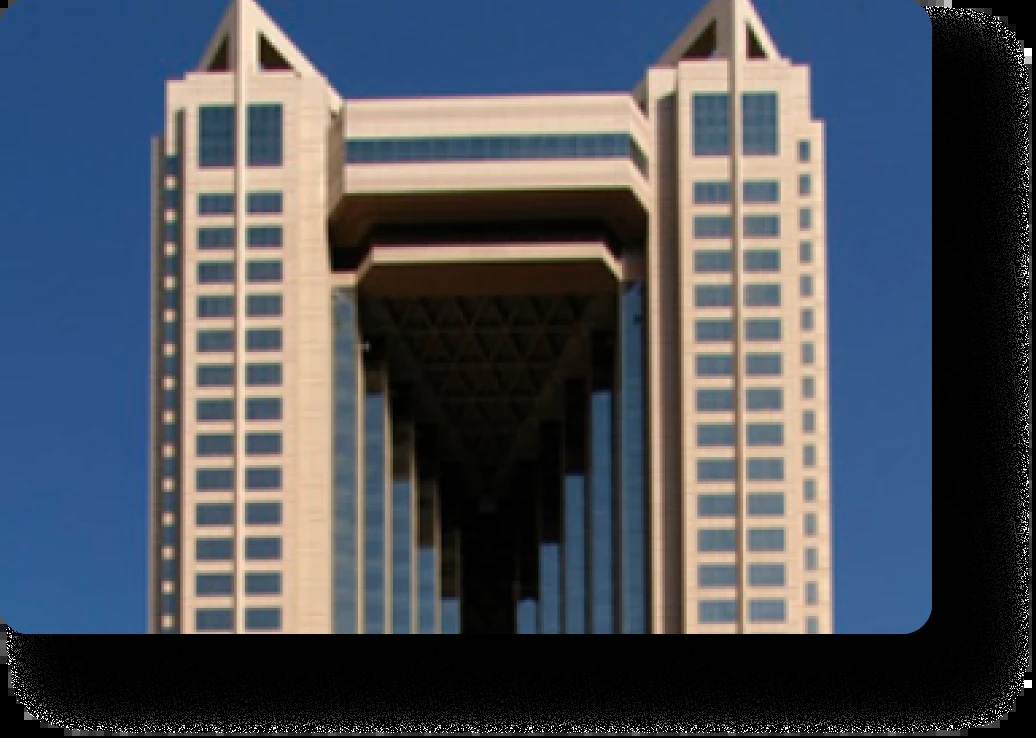
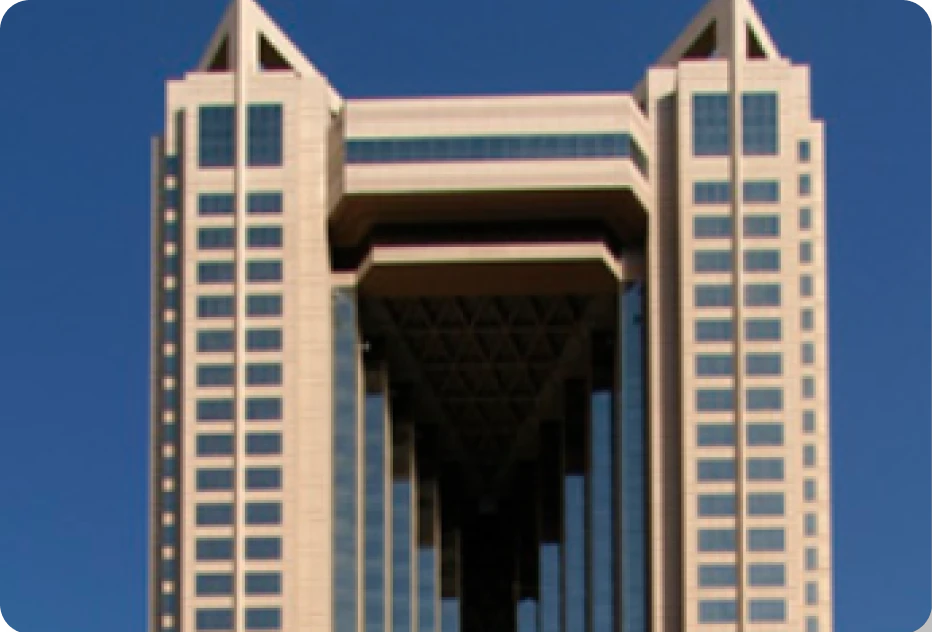
Update VR images with the newer uploaded photos
Swap in the newer, higher-quality photos for Family Mall, Al Wahda Mall,
and Fairmont; remove the raw uploads. Bump cache to v=14.

Claude-Session: https://claude.ai/code/session_01NbEtw66LjoBCM2c13gpFAo

diff --git a/app.js b/app.js
@@ -12,7 +12,7 @@
             id: 'sp-locator',
             category: 'electronic-services',
             featured: false,
-            image: 'images/projects/sp-locator.png?v=13',
+            image: 'images/projects/sp-locator.png?v=14',
             ar: { category: 'الخدمات الإلكترونية', name: 'محدد SP', location: 'السعودية', shortDesc: 'نظام تحديد المواقع الجغرافية لإدارة البنية التحتية للاتصالات.', fullDesc: 'تطوير نظام متكامل لتحديد المواقع الجغرافية يُستخدم في إدارة وتتبع البنية التحتية لشبكات الاتصالات في المملكة العربية السعودية، مما يعزز كفاءة العمليات والصيانة.' },
             en: { category: 'Electronic Services', name: 'SP Locator', location: 'Saudi Arabia', shortDesc: 'Geographic positioning system for telecom infrastructure management.', fullDesc: 'Development of an integrated geographic positioning system used to manage and track telecommunications network infrastructure in Saudi Arabia, enhancing operational and maintenance efficiency.' }
         },
@@ -20,7 +20,7 @@
             id: 'omantel-gis',
             category: 'electronic-services',
             featured: false,
-            image: 'images/projects/omantel-gis.png?v=13',
+            image: 'images/projects/omantel-gis.png?v=14',
             ar: { category: 'الخدمات الإلكترونية', name: 'أومانتيل GIS', location: 'عمان', shortDesc: 'نظام معلومات جغرافية متكامل لإدارة شبكات الاتصالات.', fullDesc: 'تطوير نظام معلومات جغرافية (GIS) متكامل لشركة عمانتل لإدارة ومراقبة شبكات الاتصالات بكفاءة عالية، مع توفير أدوات تحليل مكاني متقدمة.' },
             en: { category: 'Electronic Services', name: 'Omantel GIS', location: 'Oman', shortDesc: 'Integrated GIS system for managing telecommunications networks.', fullDesc: 'Development of a comprehensive Geographic Information System (GIS) for Omantel to efficiently manage and monitor telecommunications networks, with advanced spatial analysis tools.' }
         },
@@ -28,7 +28,7 @@
             id: 'sar-gis',
             category: 'electronic-services',
             featured: true,
-            image: 'images/projects/sar-gis.png?v=13',
+            image: 'images/projects/sar-gis.png?v=14',
             ar: { category: 'الخدمات الإلكترونية', name: 'سار GIS', location: 'قطر', shortDesc: 'نظام معلومات جغرافية لإدارة شبكة السكك الحديدية.', fullDesc: 'تصميم وتنفيذ نظام معلومات جغرافية متقدم لإدارة شبكة السكك الحديدية في قطر، يشمل تتبع الأصول وتحليل البيانات المكانية وتخطيط الصيانة.' },
             en: { category: 'Electronic Services', name: 'SAR GIS', location: 'Qatar', shortDesc: 'GIS system for railway network management.', fullDesc: 'Design and implementation of an advanced Geographic Information System for managing Qatar\'s railway network, including asset tracking, spatial data analysis, and maintenance planning.' }
         },
@@ -36,7 +36,7 @@
             id: 'lebanon-dsp',
             category: 'energy',
             featured: false,
-            image: 'images/projects/lebanon-dsp.png?v=13',
+            image: 'images/projects/lebanon-dsp.png?v=14',
             ar: { category: 'الطاقة', name: 'لبنان DSP', location: 'السعودية', shortDesc: 'تصميم وتخطيط محطات توزيع الطاقة الكهربائية.', fullDesc: 'مشروع تصميم وتخطيط محطات توزيع الطاقة الكهربائية بأحدث التقنيات والمعايير الدولية لضمان استدامة وكفاءة التوزيع الكهربائي.' },
             en: { category: 'Energy', name: 'Lebanon DSP', location: 'Saudi Arabia', shortDesc: 'Design and planning of electrical power distribution stations.', fullDesc: 'Design and planning project for electrical power distribution stations using the latest technologies and international standards to ensure sustainable and efficient power distribution.' }
         },
@@ -44,7 +44,7 @@
             id: 'baghdad-city',
             category: 'energy',
             featured: false,
-            image: 'images/projects/baghdad-city.png?v=13',
+            image: 'images/projects/baghdad-city.png?v=14',
             ar: { category: 'الطاقة', name: 'مدينة بغداد', location: 'العراق', shortDesc: 'تطوير البنية التحتية للطاقة الكهربائية في بغداد.', fullDesc: 'مشروع شامل لتطوير وتحديث البنية التحتية للطاقة الكهربائية في مدينة بغداد، يهدف إلى تحسين جودة الخدمة وزيادة قدرة الشبكة الكهربائية.' },
             en: { category: 'Energy', name: 'Baghdad City', location: 'Iraq', shortDesc: 'Electrical energy infrastructure development in Baghdad.', fullDesc: 'A comprehensive project to develop and modernize the electrical energy infrastructure in Baghdad city, aiming to improve service quality and increase grid capacity.' }
         },
@@ -52,7 +52,7 @@
             id: 'khafji-gas',
             category: 'energy',
             featured: false,
-            image: 'images/projects/khafji-gas.png?v=13',
+            image: 'images/projects/khafji-gas.png?v=14',
             ar: { category: 'الطاقة', name: 'غاز الخفجي', location: 'السعودية', shortDesc: 'تصميم وإشراف على منشآت معالجة الغاز الطبيعي.', fullDesc: 'تصميم هندسي متكامل والإشراف على تنفيذ منشآت معالجة الغاز الطبيعي في منطقة الخفجي، بما يشمل أنظمة المعالجة والتخزين والنقل.' },
             en: { category: 'Energy', name: 'Khafji Gas', location: 'Saudi Arabia', shortDesc: 'Design and supervision of natural gas processing facilities.', fullDesc: 'Comprehensive engineering design and supervision of natural gas processing facilities in the Khafji region, including processing, storage, and transportation systems.' }
         },
@@ -60,7 +60,7 @@
             id: 'mdeirej-bridge',
             category: 'infrastructure',
             featured: false,
-            image: 'images/projects/mdeirej-bridge.png?v=13',
+            image: 'images/projects/mdeirej-bridge.png?v=14',
             ar: { category: 'البنية التحتية', name: 'جسر مديرج', location: 'لبنان', shortDesc: 'تصميم وإشراف هندسي على بناء جسر مديرج الشهير.', fullDesc: 'تصميم وإشراف هندسي على بناء جسر مديرج الشهير في لبنان، أحد أبرز المعالم الهندسية في المنطقة، بطول يتجاوز عدة مئات من الأمتار.' },
             en: { category: 'Infrastructure', name: 'Mdeirej Bridge', location: 'Lebanon', shortDesc: 'Engineering design and supervision of the famous Mdeirej Bridge.', fullDesc: 'Engineering design and supervision of the iconic Mdeirej Bridge in Lebanon, one of the most prominent engineering landmarks in the region, spanning several hundred meters.' }
         },
@@ -68,7 +68,7 @@
             id: 'najran-airport',
             category: 'infrastructure',
             featured: true,
-            image: 'images/projects/najran-airport.png?v=13',
+            image: 'images/projects/najran-airport.png?v=14',
             ar: { category: 'البنية التحتية', name: 'مطار نجران', location: 'السعودية', shortDesc: 'الإشراف على إنشاء مطار نجران بتكليف من هيئة الطيران المدني.', fullDesc: 'كُلِّفت شركة خطيب وعلمي من قِبل الهيئة العامة للطيران المدني بالإشراف على إنشاء مطار نجران. يتضمن المشروع تصميم المدارج، المباني الرئيسية، والخدمات اللوجستية التي تدعم حركة المسافرين بكفاءة عالية.' },
             en: { category: 'Infrastructure', name: 'Najran Airport', location: 'Saudi Arabia', shortDesc: 'Supervision of Najran Airport construction for the Civil Aviation Authority.', fullDesc: 'Khatib & Alami was commissioned by the General Authority of Civil Aviation to supervise the construction of Najran Airport. The project includes runway design, main buildings, and logistics services supporting efficient passenger movement.' }
         },
@@ -76,7 +76,7 @@
             id: 'water-supply',
             category: 'infrastructure',
             featured: false,
-            image: 'images/projects/water-supply.png?v=13',
+            image: 'images/projects/water-supply.png?v=14',
             ar: { category: 'البنية التحتية', name: 'إمدادات المياه', location: 'كردستان', shortDesc: 'تطوير شبكات إمدادات المياه والصرف الصحي.', fullDesc: 'مشروع شامل لتطوير وتحديث شبكات إمدادات المياه والصرف الصحي في إقليم كردستان، يهدف لتوفير مياه نظيفة وآمنة للسكان وتحسين البنية التحتية للمياه.' },
             en: { category: 'Infrastructure', name: 'Water Supply', location: 'Kurdistan', shortDesc: 'Water supply and sewage network development.', fullDesc: 'A comprehensive project to develop and modernize water supply and sewage networks in the Kurdistan Region, aiming to provide clean and safe water for residents and improve water infrastructure.' }
         },
@@ -84,7 +84,7 @@
             id: 'riyadh-hotel',
             category: 'architecture',
             featured: false,
-            image: 'images/projects/riyadh-hotel.png?v=13',
+            image: 'images/projects/riyadh-hotel.png?v=14',
             ar: { category: 'الهندسة المعمارية', name: 'فندق الرياض', location: 'الجزائر', shortDesc: 'تصميم معماري وإنشائي لفندق فاخر في العاصمة الجزائرية.', fullDesc: 'تصميم معماري وإنشائي متكامل لفندق فاخر في العاصمة الجزائرية، يجمع بين الأصالة والحداثة مع مرافق عالمية المستوى ومعايير ضيافة استثنائية.' },
             en: { category: 'Architecture', name: 'Riyadh Hotel', location: 'Algeria', shortDesc: 'Architectural and structural design of a luxury hotel.', fullDesc: 'Comprehensive architectural and structural design of a luxury hotel in the Algerian capital, combining authenticity and modernity with world-class facilities and exceptional hospitality standards.' }
         },
@@ -92,7 +92,7 @@
             id: 'tamkeen-tower',
             category: 'architecture',
             featured: false,
-            image: 'images/projects/tamkeen-tower.png?v=13',
+            image: 'images/projects/tamkeen-tower.png?v=14',
             ar: { category: 'الهندسة المعمارية', name: 'برج تمكين', location: 'السعودية', shortDesc: 'تصميم وإشراف هندسي على بناء برج تمكين الشاهق.', fullDesc: 'تصميم وإشراف هندسي متكامل على بناء برج تمكين، أحد الأبراج الشاهقة في المملكة العربية السعودية، بتقنيات بناء متطورة وتصميم معماري عصري.' },
             en: { category: 'Architecture', name: 'Tamkeen Tower', location: 'Saudi Arabia', shortDesc: 'Engineering design and supervision of the iconic Tamkeen Tower.', fullDesc: 'Comprehensive engineering design and supervision of Tamkeen Tower, one of the tallest towers in Saudi Arabia, utilizing advanced construction techniques and modern architectural design.' }
         },
@@ -100,7 +100,7 @@
             id: 'jabal-omar',
             category: 'architecture',
             featured: true,
-            image: 'images/projects/jabal-omar.png?v=13',
+            image: 'images/projects/jabal-omar.png?v=14',
             ar: { category: 'الهندسة المعمارية', name: 'جبل عمر', location: 'السعودية', shortDesc: 'تطوير مشروع جبل عمر على مساحة تزيد عن مليون متر مربع.', fullDesc: 'تعمل شركة خطيب وعلمي على مشروع تطوير جبل عمر، الذي يمتد على مساحة تزيد عن مليون متر مربع. يهدف المشروع لتطوير بنية تحتية حديثة تخدم زوار مكة المكرمة بأعلى مستويات الراحة والجودة العمرانية.' },
             en: { category: 'Architecture', name: 'Jabal Omar', location: 'Saudi Arabia', shortDesc: 'Development spanning over one million square meters near the Holy Mosque.', fullDesc: 'Khatib & Alami is working on the Jabal Omar development project, spanning over one million square meters. The project aims to develop modern infrastructure serving visitors to Makkah with the highest levels of comfort and urban quality.' }
         },
@@ -108,7 +108,7 @@
             id: 'salil-factory',
             category: 'energy',
             featured: false,
-            image: 'images/projects/salil-factory.png?v=13',
+            image: 'images/projects/salil-factory.png?v=14',
             ar: { category: 'الطاقة', name: 'مصنع سليل للتعبئة', location: 'السعودية', shortDesc: 'إعداد مراجعة التصميم التفصيلي والمساعدة في شراء المواد ووثائق البناء لمصنع السائبة في السليل.', fullDesc: 'إعداد مراجعة التصميم التفصيلي بما في ذلك المساعدة في شراء المواد ووثائق البناء لمصنع السائبة في السليل. يمثل المشروع خطوة متقدمة في القطاع الصناعي لدعم الإنتاج المحلي.' },
             en: { category: 'Energy', name: 'Salil Packaging Factory', location: 'Saudi Arabia', shortDesc: 'Detailed design review and procurement assistance for the bulk plant in Salil.', fullDesc: 'Preparation of detailed design review, including procurement assistance and construction documentation for the bulk plant in Salil. The project represents a key industrial step supporting local production.' }
         },
@@ -116,7 +116,7 @@
             id: 'riyadh-services',
             category: 'electronic-services',
             featured: true,
-            image: 'images/projects/riyadh-services.png?v=13',
+            image: 'images/projects/riyadh-services.png?v=14',
             ar: { category: 'الخدمات الإلكترونية', name: 'برنامج الخدمات بالرياض', location: 'السعودية', shortDesc: 'بناء ونشر نظم المعلومات الجغرافية لخدمة قطاع الأعمال ورفع الكفاءة.', fullDesc: 'الهدف من نشر نظم المعلومات الجغرافية هو بناء قاعدة لنظام المؤسسة الذي سيتم دمجه مع أنظمة متعددة لخدمة قطاع الأعمال ورفع كفاءة الخدمات الإلكترونية بالمنطقة.' },
             en: { category: 'Electronic Services', name: 'Riyadh Services Program', location: 'Saudi Arabia', shortDesc: 'Deploying GIS to serve the business sector and improve service efficiency.', fullDesc: 'The deployment of GIS aims to build an enterprise system integrated with multiple platforms to serve the business sector and raise the efficiency of electronic services in Riyadh.' }
         }
@@ -124,9 +124,9 @@
 
     // VR Data
     const vrData = [
-        { name: { ar: 'مول العائلة', en: 'Family Mall' }, image: 'images/projects/vr-family-mall.png?v=13', link: 'https://maps.app.goo.gl/ZwNfmAv9Sau8GWFe7' },
-        { name: { ar: 'الوحدة مول', en: 'Al Wahda Mall' }, image: 'images/projects/vr-alwahda-mall.png?v=13', link: 'https://maps.app.goo.gl/oEdzmyBDZuj4JMLZ6' },
-        { name: { ar: 'فندق فيرمونت', en: 'Fairmont Hotel' }, image: 'images/projects/vr-fairmont.png?v=13', link: 'https://maps.app.goo.gl/eFgmSJ1jTCtz4dre9' }
+        { name: { ar: 'مول العائلة', en: 'Family Mall' }, image: 'images/projects/vr-family-mall.png?v=14', link: 'https://maps.app.goo.gl/ZwNfmAv9Sau8GWFe7' },
+        { name: { ar: 'الوحدة مول', en: 'Al Wahda Mall' }, image: 'images/projects/vr-alwahda-mall.png?v=14', link: 'https://maps.app.goo.gl/oEdzmyBDZuj4JMLZ6' },
+        { name: { ar: 'فندق فيرمونت', en: 'Fairmont Hotel' }, image: 'images/projects/vr-fairmont.png?v=14', link: 'https://maps.app.goo.gl/eFgmSJ1jTCtz4dre9' }
     ];
 
     /* ==========================================

diff --git a/index.html b/index.html
@@ -40,7 +40,7 @@
     </script>
 
     <!-- Custom Styles -->
-    <link rel="stylesheet" href="styles.css?v=13">
+    <link rel="stylesheet" href="styles.css?v=14">
 </head>
 <body class="antialiased flex flex-col min-h-screen">
 
@@ -319,16 +319,16 @@
                 <div class="max-w-7xl mx-auto px-4 text-center">
                     <h2 class="text-2xl font-bold text-black mb-8 animate-on-scroll" data-i18n="partners.title">شركاؤنا في النجاح</h2>
                     <div class="partners-grid max-w-5xl mx-auto grid grid-cols-2 sm:grid-cols-3 md:grid-cols-5 gap-x-6 gap-y-8 items-center">
-                        <img src="images/partners/world-games.png?v=13" class="partners-logo animate-on-scroll" data-animate="zoom-in" loading="lazy" alt="الألعاب العالمية">
-                        <img src="images/partners/royal-commission-riyadh.png?v=13" class="partners-logo animate-on-scroll" data-animate="zoom-in" loading="lazy" alt="الهيئة الملكية لمدينة الرياض">
-                        <img src="images/partners/ministry-tourism.png?v=13" class="partners-logo animate-on-scroll" data-animate="zoom-in" loading="lazy" alt="وزارة السياحة">
-                        <img src="images/partners/qiddiya.png?v=13" class="partners-logo animate-on-scroll" data-animate="zoom-in" loading="lazy" alt="القدية">
-                        <img src="images/partners/tamm.png?v=13" class="partners-logo animate-on-scroll" data-animate="zoom-in" loading="lazy" alt="تم">
-                        <img src="images/partners/ministry-telecom.png?v=13" class="partners-logo animate-on-scroll" data-animate="zoom-in" loading="lazy" alt="وزارة الاتصالات">
-                        <img src="images/partners/sar.png?v=13" class="partners-logo animate-on-scroll" data-animate="zoom-in" loading="lazy" alt="الشركة السعودية للخطوط الحديدية (سار)">
-                        <img src="images/partners/health-eoc.png?v=13" class="partners-logo animate-on-scroll" data-animate="zoom-in" loading="lazy" alt="مركز عمليات الطوارئ الصحية">
-                        <img src="images/partners/amlak.png?v=13" class="partners-logo animate-on-scroll" data-animate="zoom-in" loading="lazy" alt="أملاك">
-                        <img src="images/partners/fanr.png?v=13" class="partners-logo animate-on-scroll" data-animate="zoom-in" loading="lazy" alt="الهيئة الاتحادية للرقابة النووية">
+                        <img src="images/partners/world-games.png?v=14" class="partners-logo animate-on-scroll" data-animate="zoom-in" loading="lazy" alt="الألعاب العالمية">
+                        <img src="images/partners/royal-commission-riyadh.png?v=14" class="partners-logo animate-on-scroll" data-animate="zoom-in" loading="lazy" alt="الهيئة الملكية لمدينة الرياض">
+                        <img src="images/partners/ministry-tourism.png?v=14" class="partners-logo animate-on-scroll" data-animate="zoom-in" loading="lazy" alt="وزارة السياحة">
+                        <img src="images/partners/qiddiya.png?v=14" class="partners-logo animate-on-scroll" data-animate="zoom-in" loading="lazy" alt="القدية">
+                        <img src="images/partners/tamm.png?v=14" class="partners-logo animate-on-scroll" data-animate="zoom-in" loading="lazy" alt="تم">
+                        <img src="images/partners/ministry-telecom.png?v=14" class="partners-logo animate-on-scroll" data-animate="zoom-in" loading="lazy" alt="وزارة الاتصالات">
+                        <img src="images/partners/sar.png?v=14" class="partners-logo animate-on-scroll" data-animate="zoom-in" loading="lazy" alt="الشركة السعودية للخطوط الحديدية (سار)">
+                        <img src="images/partners/health-eoc.png?v=14" class="partners-logo animate-on-scroll" data-animate="zoom-in" loading="lazy" alt="مركز عمليات الطوارئ الصحية">
+                        <img src="images/partners/amlak.png?v=14" class="partners-logo animate-on-scroll" data-animate="zoom-in" loading="lazy" alt="أملاك">
+                        <img src="images/partners/fanr.png?v=14" class="partners-logo animate-on-scroll" data-animate="zoom-in" loading="lazy" alt="الهيئة الاتحادية للرقابة النووية">
                     </div>
                 </div>
             </div>
@@ -516,6 +516,6 @@
     </div>
 
     <!-- App Script -->
-    <script src="app.js?v=13"></script>
+    <script src="app.js?v=14"></script>
 </body>
 </html>